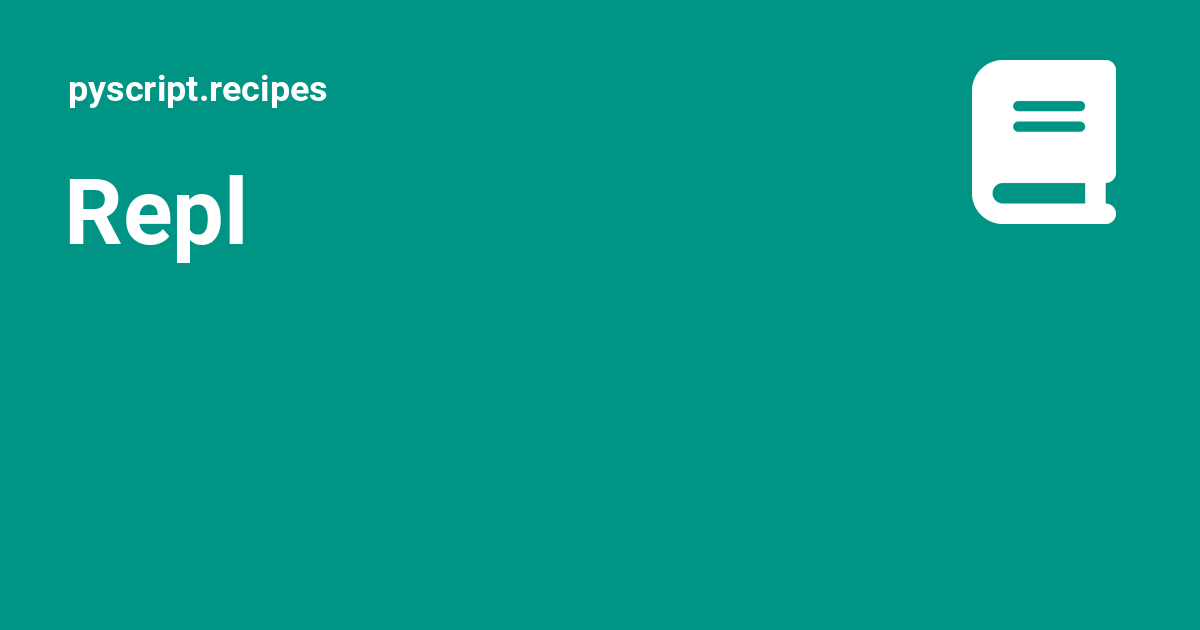
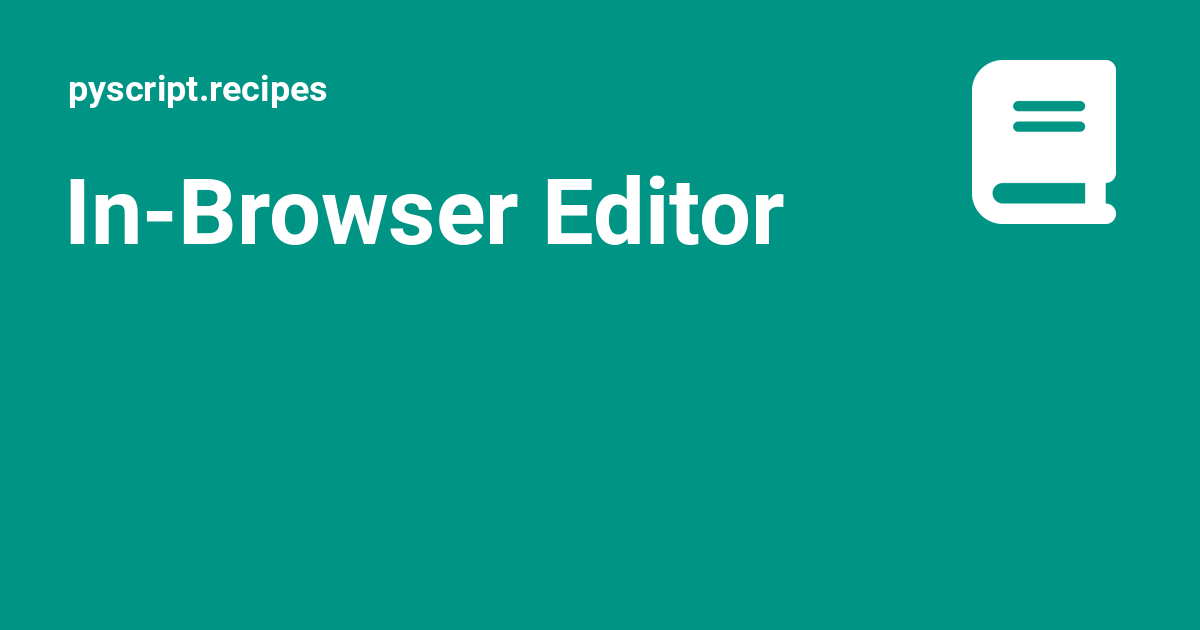
Deployed ef5c9be to 2023.12.1 with MkDocs 1.5.3 and mike 1.1.2

Changed region(s): [[0.0617, 0.2714, 0.6783, 0.4222]]

diff --git a/2023.12.1/basic/repl/index.html b/2023.12.1/basic/repl/index.html
@@ -22,7 +22,7 @@
     
     
       
-        <title>Repl - pyscript.recipes</title>
+        <title>In-Browser Editor - pyscript.recipes</title>
       
     
     
@@ -75,7 +75,7 @@
       
         <meta  property="og:type"  content="website" >
       
-        <meta  property="og:title"  content="Repl - pyscript.recipes" >
+        <meta  property="og:title"  content="In-Browser Editor - pyscript.recipes" >
       
         <meta  property="og:description"  content="None" >
       
@@ -91,7 +91,7 @@
       
         <meta  name="twitter:card"  content="summary_large_image" >
       
-        <meta  name="twitter:title"  content="Repl - pyscript.recipes" >
+        <meta  name="twitter:title"  content="In-Browser Editor - pyscript.recipes" >
       
         <meta  name="twitter:description"  content="None" >
       
@@ -155,7 +155,7 @@
         <div class="md-header__topic" data-md-component="header-topic">
           <span class="md-ellipsis">
             
-              Repl
+              In-Browser Editor
             
           </span>
         </div>
@@ -413,7 +413,7 @@
         
   
   <span class="md-ellipsis">
-    Repl
+    In-Browser Editor
   </span>
   
 
@@ -965,7 +965,7 @@
                   
 
 
-  <h1>Repl</h1>
+  <h1>In-Browser Editor</h1>
 
 <div class="tabbed-set tabbed-alternate" data-tabs="1:2"><input checked="checked" id="__tabbed_1_1" name="__tabbed_1" type="radio" /><input id="__tabbed_1_2" name="__tabbed_1" type="radio" /><div class="tabbed-labels"><label for="__tabbed_1_1">PyScript (Pyodide)</label><label for="__tabbed_1_2">PyScript (Micropython)</label></div>
 <div class="tabbed-content">

diff --git a/2023.12.1/404.html b/2023.12.1/404.html
@@ -372,7 +372,7 @@
         
   
   <span class="md-ellipsis">
-    Repl
+    In-Browser Editor
   </span>
   
 

diff --git a/2023.12.1/about/index.html b/2023.12.1/about/index.html
@@ -409,7 +409,7 @@
         
   
   <span class="md-ellipsis">
-    Repl
+    In-Browser Editor
   </span>
   
 

diff --git a/2023.12.1/basic/file-download/index.html b/2023.12.1/basic/file-download/index.html
@@ -411,7 +411,7 @@
         
   
   <span class="md-ellipsis">
-    Repl
+    In-Browser Editor
   </span>
   
 

diff --git a/2023.12.1/basic/file-upload/index.html b/2023.12.1/basic/file-upload/index.html
@@ -411,7 +411,7 @@
         
   
   <span class="md-ellipsis">
-    Repl
+    In-Browser Editor
   </span>
   
 

diff --git a/2023.12.1/basic/installation/index.html b/2023.12.1/basic/installation/index.html
@@ -414,7 +414,7 @@
         
   
   <span class="md-ellipsis">
-    Repl
+    In-Browser Editor
   </span>
   
 

diff --git a/2023.12.1/basic/installing-packages/index.html b/2023.12.1/basic/installing-packages/index.html
@@ -421,7 +421,7 @@
         
   
   <span class="md-ellipsis">
-    Repl
+    In-Browser Editor
   </span>
   
 

diff --git a/2023.12.1/basic/running-code/index.html b/2023.12.1/basic/running-code/index.html
@@ -421,7 +421,7 @@
         
   
   <span class="md-ellipsis">
-    Repl
+    In-Browser Editor
   </span>
   
 

diff --git a/2023.12.1/basic/test/index.html b/2023.12.1/basic/test/index.html
@@ -406,7 +406,7 @@
         
   
   <span class="md-ellipsis">
-    Repl
+    In-Browser Editor
   </span>
   
 

diff --git a/2023.12.1/basic/when-finished/index.html b/2023.12.1/basic/when-finished/index.html
@@ -411,7 +411,7 @@
         
   
   <span class="md-ellipsis">
-    Repl
+    In-Browser Editor
   </span>
   
 

diff --git a/2023.12.1/index.html b/2023.12.1/index.html
@@ -417,7 +417,7 @@
         
   
   <span class="md-ellipsis">
-    Repl
+    In-Browser Editor
   </span>
   
 

diff --git a/2023.12.1/js-integration/constructing-js-objects/index.html b/2023.12.1/js-integration/constructing-js-objects/index.html
@@ -404,7 +404,7 @@
         
   
   <span class="md-ellipsis">
-    Repl
+    In-Browser Editor
   </span>
   
 
